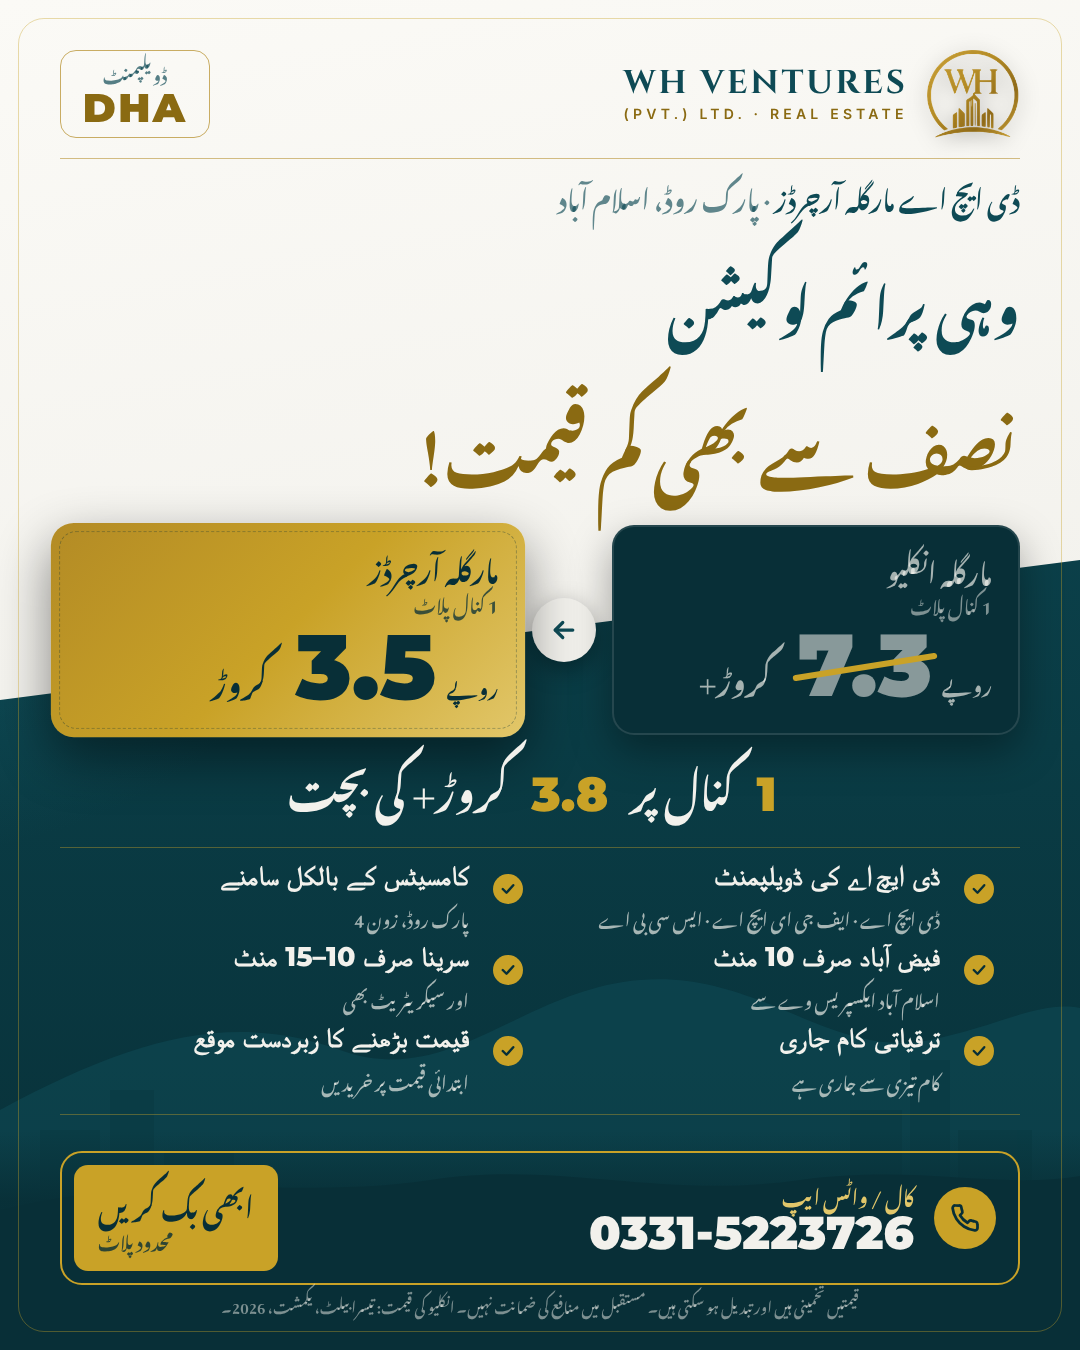
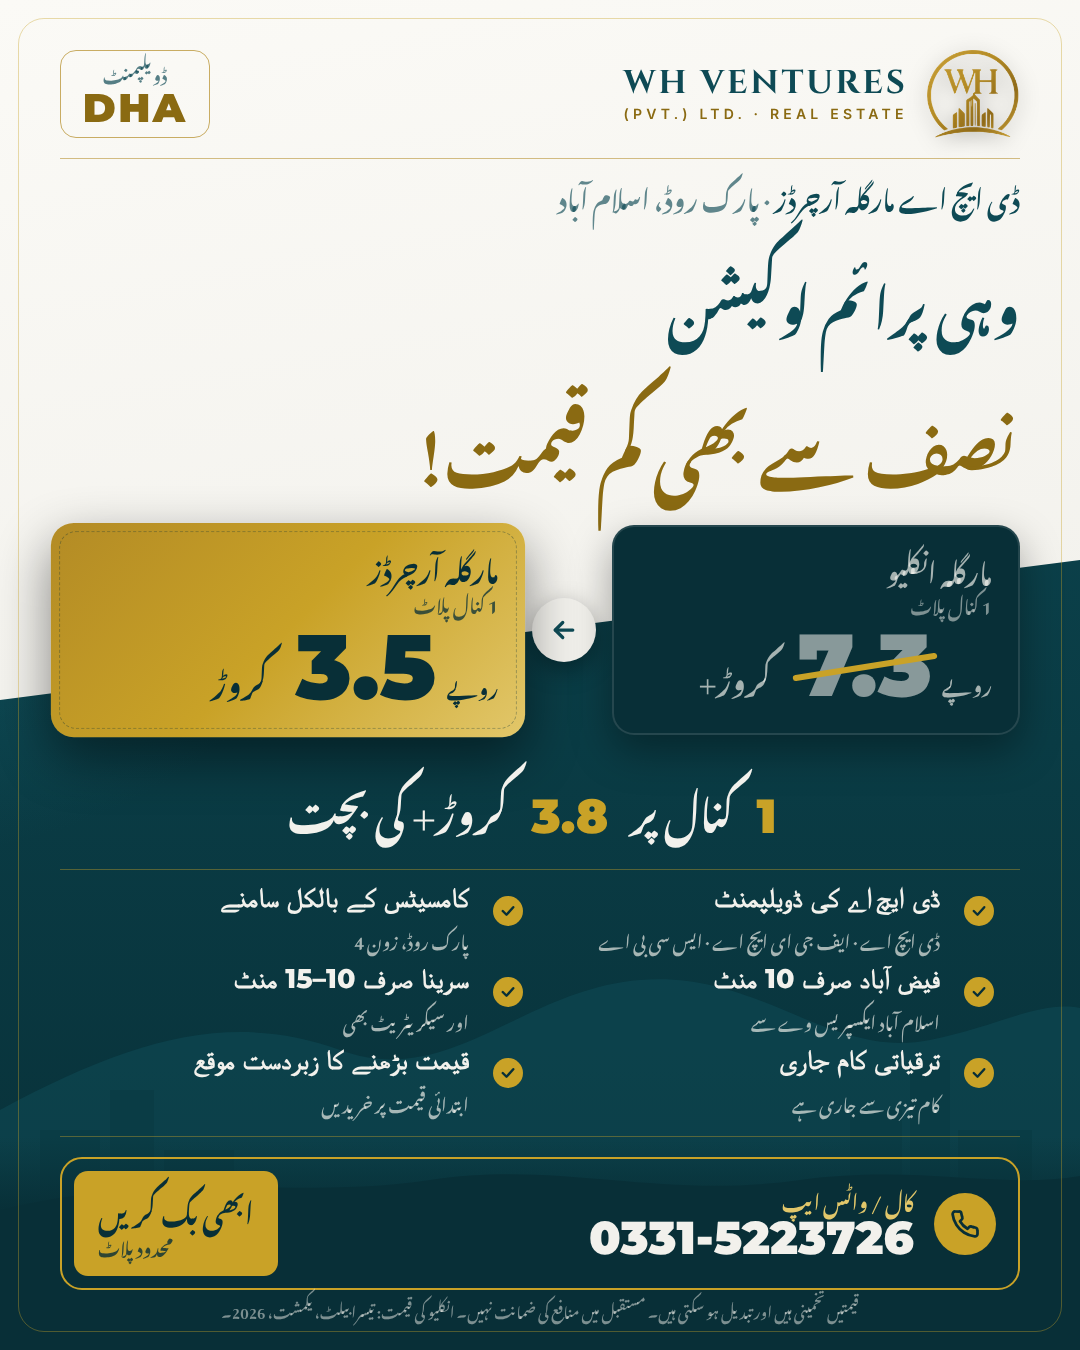
Add space above the Urdu savings line so it clears the gold price ticket
Claude-Session: https://claude.ai/code/session_012xCc4tTPPKid5Gvtu7R153

Changed region(s): [[0.0611, 0.56, 0.9472, 0.9956], [0.9167, 0.9333, 0.9472, 0.9644]]

diff --git a/ads/margalla-orchards/variants.html b/ads/margalla-orchards/variants.html
@@ -374,6 +374,15 @@ html,body{background:#111}
 /* rebalance vertical space after the bigger line gap */
 .story.mtn.ur.C .tickets{margin-top:178px}
 .mtn.ur.C .tickets{margin-top:134px}
+
+/* Urdu savings line: clear the tall ک strokes away from the gold ticket above */
+.ur.C .saveline{margin-top:40px}
+.mtn.ur.C .saveline{margin-top:46px}
+.story.mtn.ur.C .saveline{margin-top:52px}
+.story.mtn.ur.C .tickets{margin-top:156px}
+.square.mtn.ur.C .saveline{margin-top:40px}
+.square.mtn.ur.C .tickets{margin-top:150px}
+.square.mtn.ur.C .checks{margin-top:8px;gap:4px 16px;padding:10px 4px}
 </style>
 </head>
 <body>
